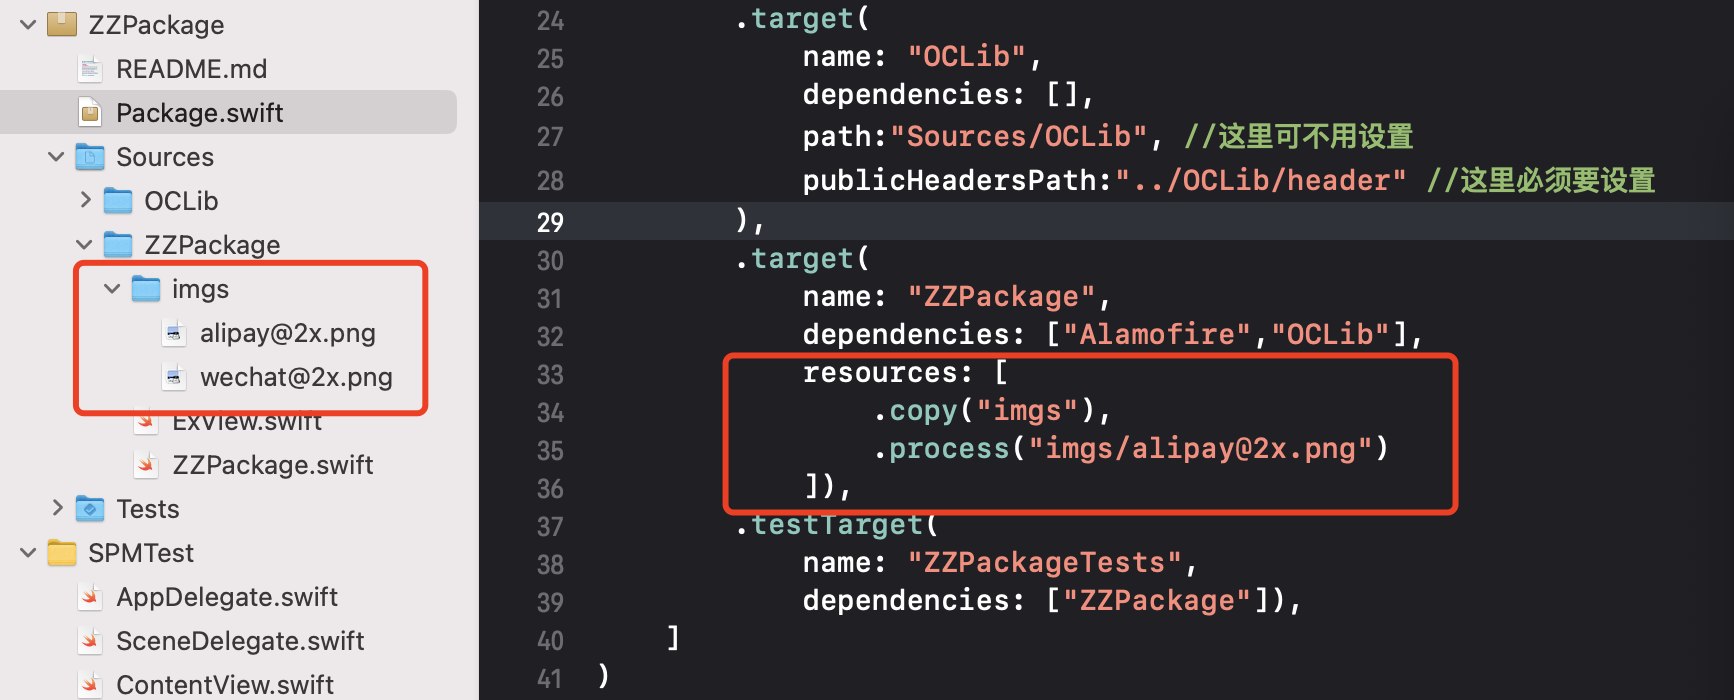
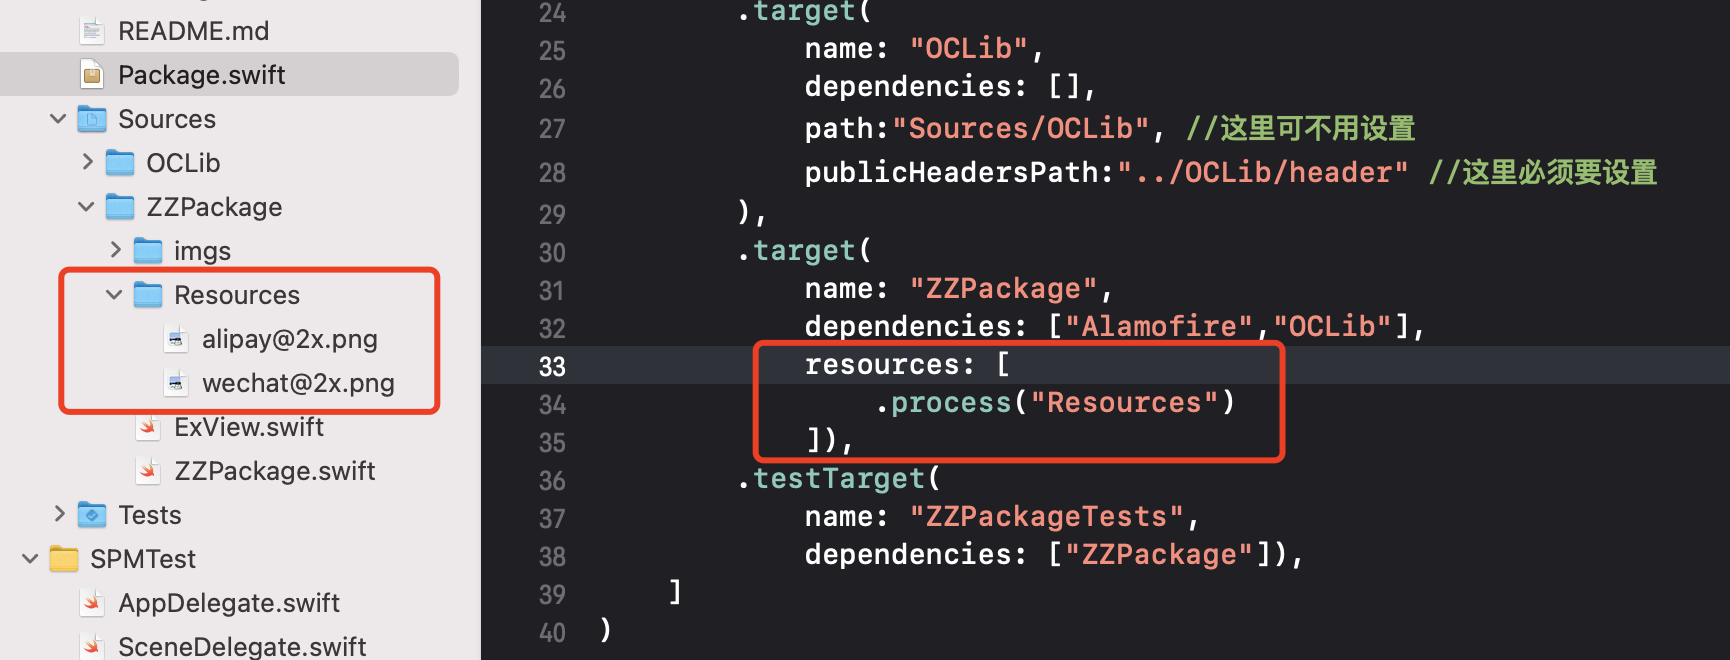
添加资源文件

diff --git a/2021/Swift-SPM包管理器/Swift-SPM包管理器.md b/2021/Swift-SPM包管理器/Swift-SPM包管理器.md
@@ -170,9 +170,9 @@ let package = Package(
 * swiftLanguageVersions: 支持的swift版本
 
 ### resources 添加资源文件
-在`.target`下，我们可以添加资源文件字段`resources`,例如添加图片资源：
+在`.target`下，我们可以添加资源文件字段`resources`,例如添加图片资源自定义文件夹`imgs`：
 
-![resources](./resources.png)
+![resources_imgs](./resources_imgs.png)
 
 如果资源或路径添加不对，编译报错！
 
@@ -196,6 +196,38 @@ let package = Package(
         
     }
 ```
+
+在`.target`下，我们可以添加资源文件字段`resources`,使用默认文件夹`Resources`,**推荐使用**这种:
+
+![resources](./resources.png)
+
+这种方式可以直接在`process`中指定文件夹`Resources`，使用的时候也无需引用该路径。swift在编译的时候不会添加Resources路径。
+
+```
+    public func bgImgUrl() -> some View {
+        
+        let path = Bundle.module.url(forResource: "wechat@2x", withExtension: "png")
+        guard let data = try? Data(contentsOf: path!),
+              let uiimage = UIImage.init(data: data)
+        else {
+            fatalError("image load path error: \(path as Any)")
+        }
+        let img = Image(uiImage: uiimage)
+        return self
+            .background(img)
+        
+    }
+```
+
+这里也有一个第三方使用`resources`的案例：
+
+![NutritionFacts](./NutritionFacts.png)
+
+在`Assets.xcassets`中添加的图片资源不需要使用路径方式,使用方式如下:
+```
+Image("imageName", bundle: .module)
+```
+
 
 SPM**不支持混合**语言开发，在同一个target中无法使用多语言，否则编译报错。
 
